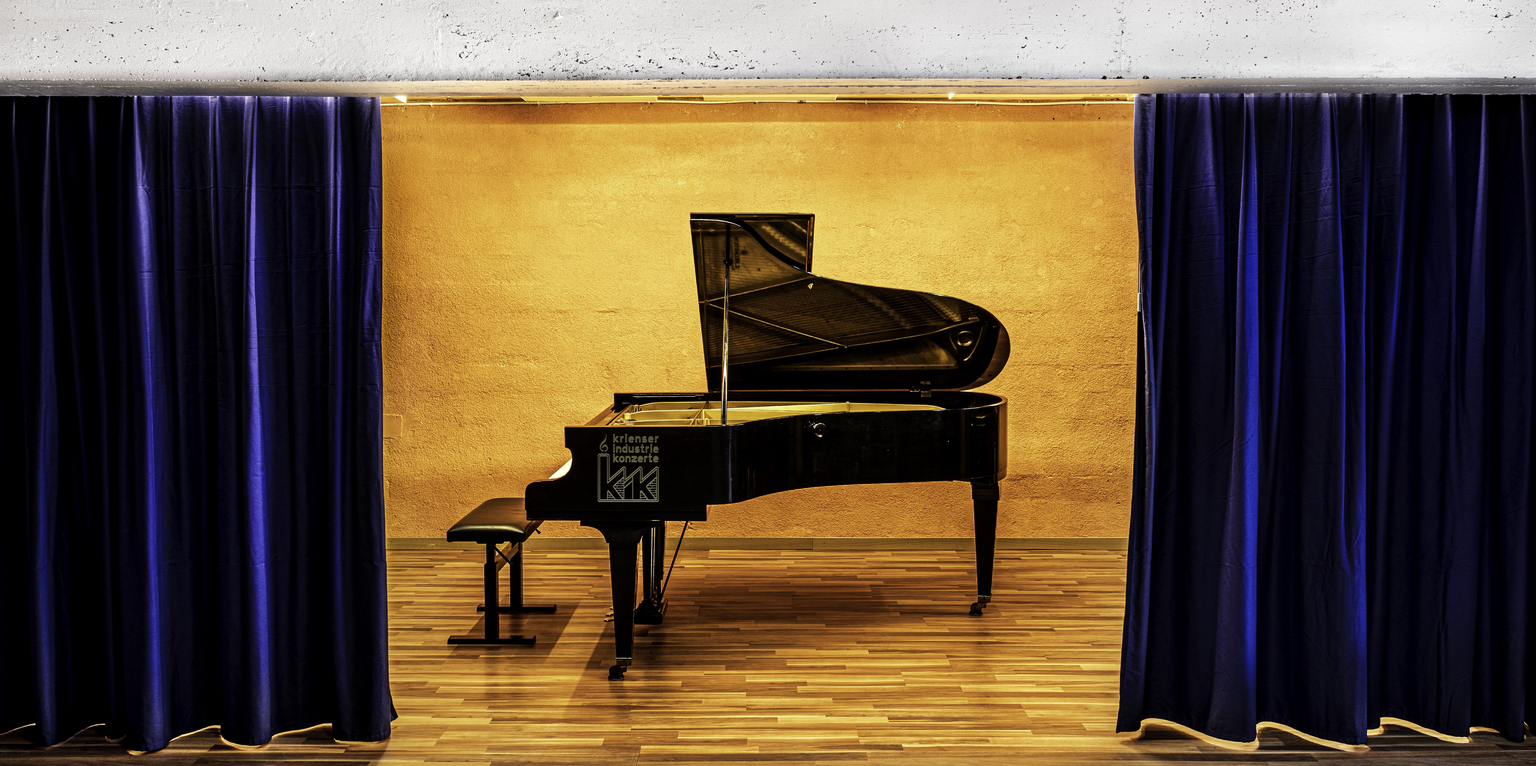
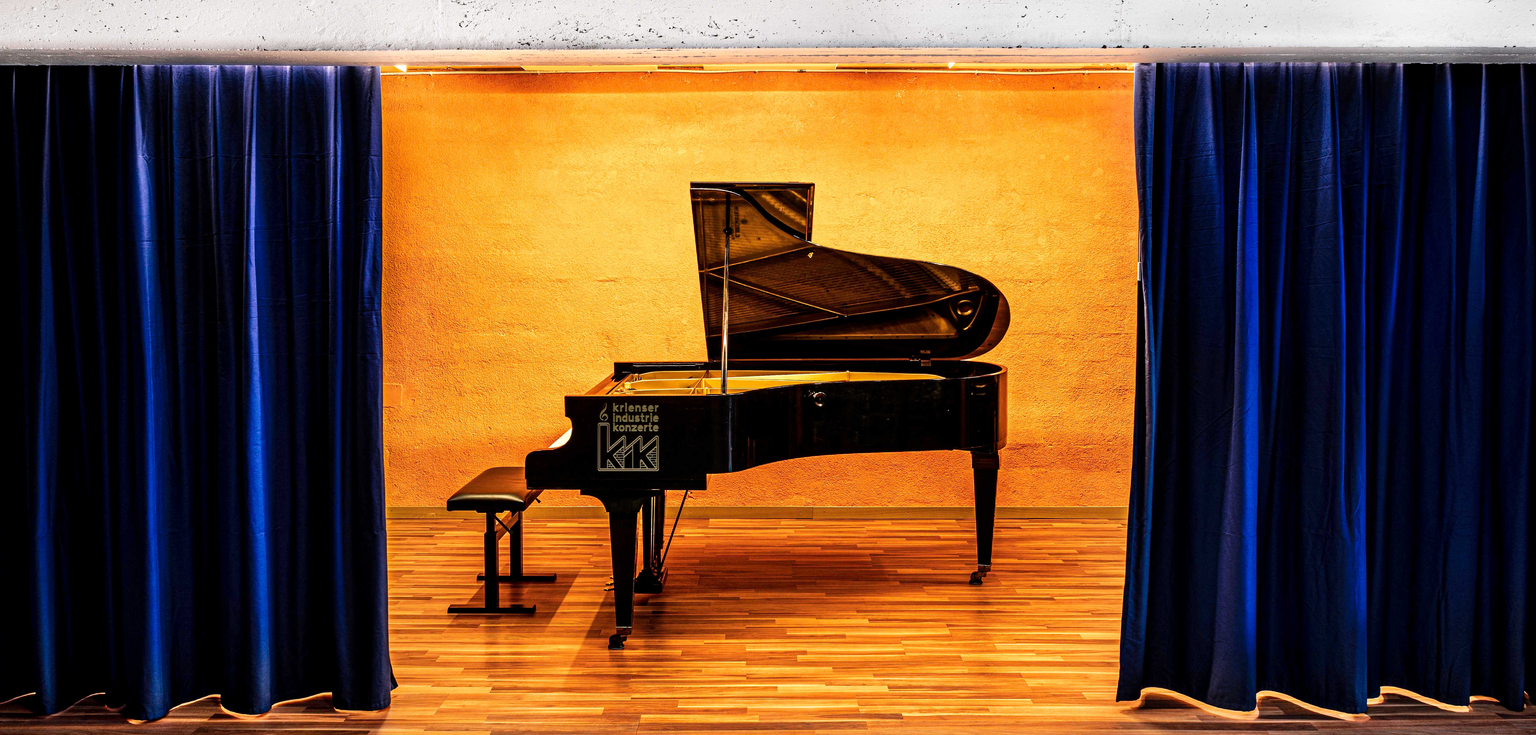
hero shot and other design adjustments

diff --git a/assets/js/events.js b/assets/js/events.js
@@ -33,25 +33,6 @@ function parseDate(dateString) {
   return new Date().toISOString();
 }
 
-// Auto-lookup image by date pattern (YY-MM-DD format in filename)
-function findImageByDate(dateString) {
-  // Extract date from date string: "So, 29.03.26, 17:00" -> "26-03-29"
-  const match = dateString.match(/(\d{2})\.(\d{2})\.(\d{2})/);
-  
-  if (match) {
-    const [, day, month, year] = match;
-    const datePattern = `${year}-${month}-${day}`;
-    
-    // Return with .jpg as default extension
-    // Browser will try to load it, and if it fails, will show broken image
-    // In the future, we could implement a check for .png, .jpeg, etc.
-    return `assets/img/upcoming/${datePattern}.jpg`;
-  }
-  
-  // Fallback to a placeholder or default image
-  console.warn('Could not extract date from:', dateString);
-  return 'assets/img/upcoming/placeholder.jpg';
-}
 
 // Process event to add missing fields
 function processEvent(event) {
@@ -79,9 +60,6 @@ function processEvent(event) {
       iso: event.dateISO
     }];
   }
-  
-  // Image is required - no auto-lookup
-  // Just ensure it's provided in the JSON
   
   return event;
 }
@@ -133,13 +111,11 @@ function createCalendarEvent(event, dateObj = null) {
 function createEmailLink(event, selectedDate = null) {
   const dateText = selectedDate || event.dateString;
   const subject = encodeURIComponent(`Anmeldung KiK: ${event.title} - ${dateText}`);
-  const body = encodeURIComponent(`Hallo,\n\nich möchte mich für folgendes Konzert anmelden:\n\n${event.title}\n${dateText}\n\nViele Grüsse`);
-  return `mailto:info@kikonzerte.ch?subject=${subject}&body=${body}`;
+  return `mailto:info@kikonzerte.ch?subject=${subject}`;
 }
 
 // Function to create and show date selection modal
 function showDateModal(event) {
-  // Create modal if it doesn't exist
   let modal = document.getElementById('date-selection-modal');
   if (!modal) {
     modal = document.createElement('div');

diff --git a/konzertarchiv.html b/konzertarchiv.html
@@ -37,11 +37,6 @@
         <a href="/#maschinen" aria-label="Kaffeeklavier" class="social-icon">
           <img src="assets/img/coffee-icon.png" alt="Kaffeeklavier" width="20" height="20" style="display: block;" />
         </a>
-        <a href="/#running-man" aria-label="Running Man" class="social-icon">
-          <svg width="20" height="20" viewBox="0 0 24 24" fill="none" xmlns="http://www.w3.org/2000/svg">
-            <path d="M13.49 5.48c1.1 0 2-.9 2-2s-.9-2-2-2-2 .9-2 2 .9 2 2 2zm-3.6 13.9l1-4.4 2.1 2v6h2v-7.5l-2.1-2 .6-3c1.3 1.5 3.3 2.5 5.5 2.5v-2c-1.9 0-3.5-1-4.3-2.4l-1-1.6c-.4-.6-1-1-1.7-1-.3 0-.5.1-.8.1l-5.2 2.2v4.7h2v-3.4l1.8-.7-1.6 8.1-4.9-1-.4 2 7 1.4z" fill="currentColor"/>
-          </svg>
-        </a>
       </div>
 
       <!-- Center: Title and Navigation -->

diff --git a/assets/css/archive.css b/assets/css/archive.css
@@ -24,7 +24,7 @@
   font-size: 3rem;
   color: var(--color-white) !important;
   border-bottom: 3px solid var(--color-orange);
-  padding-top: 60px; /* Account for fixed header */
+  padding-top: clamp(50px, 5vw, 110px); /* Account for fixed header */
 }
 
 /* Concert Item - Base Styles */
@@ -193,7 +193,7 @@
   }
 
   .archive-concert-date {
-    font-size: 2rem;
+    font-size: 2.5rem;
   }
 
   .archive-concert-title {
@@ -233,7 +233,7 @@
 /* Tablet adjustments */
 @media (min-width: 769px) and (max-width: 1024px) {
   .archive-concert-date {
-    font-size: 2rem;
+    font-size: 3rem;
   }
 
   .archive-concert-title {

diff --git a/assets/css/header.css b/assets/css/header.css
@@ -13,7 +13,7 @@
   background-position: center top;
   background-repeat: no-repeat;
   transition: transform var(--transition-normal), opacity var(--transition-normal);
-  height: clamp(80px, 9vh, 200px);
+  height: clamp(90px, 8vw, 150px);
 }
 
 /* Header is hidden by default when scrolling down */

diff --git a/assets/css/hero.css b/assets/css/hero.css
@@ -5,7 +5,7 @@
 .hero {
   position: relative;
   width: 100%;
-  height: 60vh;
+  height: clamp(500px, 60vw, 100vh);
   min-height: 500px; /* Minimum height to accommodate stacked buttons on mobile */
   overflow: hidden;
   display: flex;

diff --git a/assets/css/sections.css b/assets/css/sections.css
@@ -205,7 +205,7 @@
 
 .maschinen-subtitle {
   font-family: var(--font-heading);
-  font-size: clamp(1.8rem, 7vw, 4rem);
+  font-size: clamp(1.8rem, 4.5vw, 4rem);
   color: var(--color-white);
   margin: 0;
   padding-bottom: 0;
